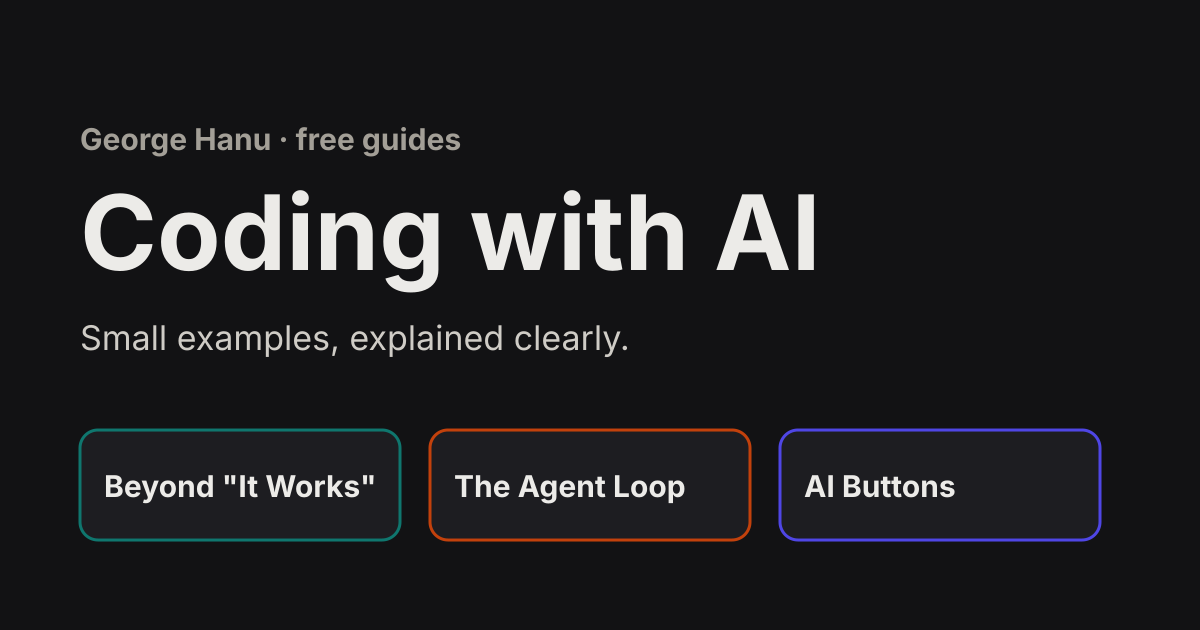
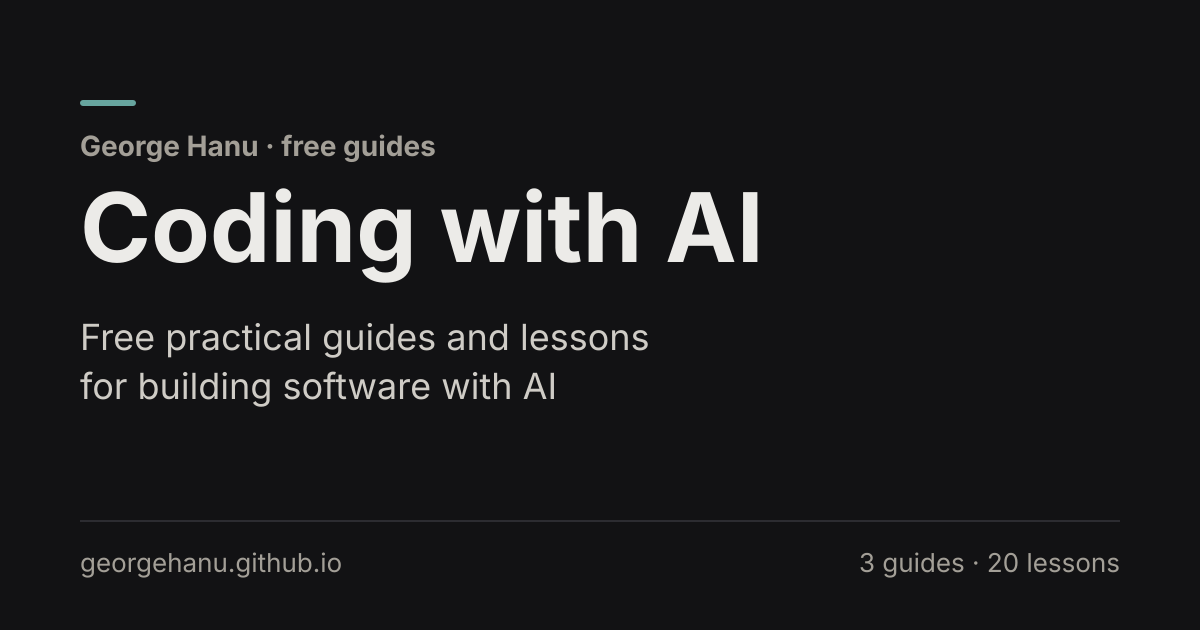
Add share images for every guide and series

diff --git a/series/use/index.html b/series/use/index.html
@@ -14,14 +14,14 @@
 <meta property="og:image" content="https://georgehanu.github.io/og/use.png">
 <meta property="og:image:width" content="1200">
 <meta property="og:image:height" content="630">
-<meta property="og:image:alt" content="Working with coding agents, a series of free guides by George Hanu: Beyond &quot;It Works&quot;">
+<meta property="og:image:alt" content="Working with coding agents: Practical workflows for getting reviewable changes out of coding agents. Coding with AI, by George Hanu.">
 <meta name="twitter:card" content="summary_large_image">
 <meta name="twitter:site" content="@georgehanu">
 <meta name="twitter:creator" content="@georgehanu">
 <meta name="twitter:title" content="Working with coding agents · Coding with AI">
 <meta name="twitter:description" content="Get reviewable, checkable work out of Claude Code, Codex and friends. 1 free guide, 6 lessons, by George Hanu.">
 <meta name="twitter:image" content="https://georgehanu.github.io/og/use.png">
-<meta name="twitter:image:alt" content="Working with coding agents, a series of free guides by George Hanu: Beyond &quot;It Works&quot;">
+<meta name="twitter:image:alt" content="Working with coding agents: Practical workflows for getting reviewable changes out of coding agents. Coding with AI, by George Hanu.">
 <link rel="icon" href="/favicon.svg" type="image/svg+xml">
 <link rel="preconnect" href="https://fonts.googleapis.com">
 <link rel="preconnect" href="https://fonts.gstatic.com" crossorigin>

diff --git a/index.html b/index.html
@@ -14,14 +14,14 @@
 <meta property="og:image" content="https://georgehanu.github.io/og.png">
 <meta property="og:image:width" content="1200">
 <meta property="og:image:height" content="630">
-<meta property="og:image:alt" content="Coding with AI, free guides by George Hanu: Beyond &quot;It Works&quot;, The Agent Loop, AI Buttons">
+<meta property="og:image:alt" content="Coding with AI: Free practical guides and lessons for building software with AI. By George Hanu.">
 <meta name="twitter:card" content="summary_large_image">
 <meta name="twitter:site" content="@georgehanu">
 <meta name="twitter:creator" content="@georgehanu">
 <meta name="twitter:title" content="Coding with AI · Free guides by George Hanu">
 <meta name="twitter:description" content="I teach developers to build software with AI, from useful scripts to app features. Small examples, explained clearly. 3 free guides, 20 lessons.">
 <meta name="twitter:image" content="https://georgehanu.github.io/og.png">
-<meta name="twitter:image:alt" content="Coding with AI, free guides by George Hanu: Beyond &quot;It Works&quot;, The Agent Loop, AI Buttons">
+<meta name="twitter:image:alt" content="Coding with AI: Free practical guides and lessons for building software with AI. By George Hanu.">
 <link rel="icon" href="/favicon.svg" type="image/svg+xml">
 <link rel="preconnect" href="https://fonts.googleapis.com">
 <link rel="preconnect" href="https://fonts.gstatic.com" crossorigin>

diff --git a/series/apps/index.html b/series/apps/index.html
@@ -14,14 +14,14 @@
 <meta property="og:image" content="https://georgehanu.github.io/og/apps.png">
 <meta property="og:image:width" content="1200">
 <meta property="og:image:height" content="630">
-<meta property="og:image:alt" content="AI in real apps, a series of free guides by George Hanu: AI Buttons">
+<meta property="og:image:alt" content="AI in real apps: Small AI features built as practical workflows inside real software. Coding with AI, by George Hanu.">
 <meta name="twitter:card" content="summary_large_image">
 <meta name="twitter:site" content="@georgehanu">
 <meta name="twitter:creator" content="@georgehanu">
 <meta name="twitter:title" content="AI in real apps · Coding with AI">
 <meta name="twitter:description" content="Small AI features with schemas, checks and a person in charge. 1 free guide, 7 lessons, by George Hanu.">
 <meta name="twitter:image" content="https://georgehanu.github.io/og/apps.png">
-<meta name="twitter:image:alt" content="AI in real apps, a series of free guides by George Hanu: AI Buttons">
+<meta name="twitter:image:alt" content="AI in real apps: Small AI features built as practical workflows inside real software. Coding with AI, by George Hanu.">
 <link rel="icon" href="/favicon.svg" type="image/svg+xml">
 <link rel="preconnect" href="https://fonts.googleapis.com">
 <link rel="preconnect" href="https://fonts.gstatic.com" crossorigin>

diff --git a/series/inside/index.html b/series/inside/index.html
@@ -14,14 +14,14 @@
 <meta property="og:image" content="https://georgehanu.github.io/og/inside.png">
 <meta property="og:image:width" content="1200">
 <meta property="og:image:height" content="630">
-<meta property="og:image:alt" content="How agents work, a series of free guides by George Hanu: The Agent Loop">
+<meta property="og:image:alt" content="How agents work: Small examples that explain tools, loops and agent behavior. Coding with AI, by George Hanu.">
 <meta name="twitter:card" content="summary_large_image">
 <meta name="twitter:site" content="@georgehanu">
 <meta name="twitter:creator" content="@georgehanu">
 <meta name="twitter:title" content="How agents work · Coding with AI">
 <meta name="twitter:description" content="Open the box: the model, the tools and the loop around them. 1 free guide, 7 lessons, by George Hanu.">
 <meta name="twitter:image" content="https://georgehanu.github.io/og/inside.png">
-<meta name="twitter:image:alt" content="How agents work, a series of free guides by George Hanu: The Agent Loop">
+<meta name="twitter:image:alt" content="How agents work: Small examples that explain tools, loops and agent behavior. Coding with AI, by George Hanu.">
 <link rel="icon" href="/favicon.svg" type="image/svg+xml">
 <link rel="preconnect" href="https://fonts.googleapis.com">
 <link rel="preconnect" href="https://fonts.gstatic.com" crossorigin>

diff --git a/lessons/index.html b/lessons/index.html
@@ -14,14 +14,14 @@
 <meta property="og:image" content="https://georgehanu.github.io/og.png">
 <meta property="og:image:width" content="1200">
 <meta property="og:image:height" content="630">
-<meta property="og:image:alt" content="Coding with AI, free guides by George Hanu">
+<meta property="og:image:alt" content="Coding with AI: Free practical guides and lessons for building software with AI. By George Hanu.">
 <meta name="twitter:card" content="summary_large_image">
 <meta name="twitter:site" content="@georgehanu">
 <meta name="twitter:creator" content="@georgehanu">
 <meta name="twitter:title" content="All lessons · Coding with AI">
 <meta name="twitter:description" content="Every lesson from George Hanu's free guides on coding with AI, in one list: 20 lessons from 3 guides. Search, or filter by series and topic.">
 <meta name="twitter:image" content="https://georgehanu.github.io/og.png">
-<meta name="twitter:image:alt" content="Coding with AI, free guides by George Hanu">
+<meta name="twitter:image:alt" content="Coding with AI: Free practical guides and lessons for building software with AI. By George Hanu.">
 <link rel="icon" href="/favicon.svg" type="image/svg+xml">
 <link rel="preconnect" href="https://fonts.googleapis.com">
 <link rel="preconnect" href="https://fonts.gstatic.com" crossorigin>

diff --git a/404.html b/404.html
@@ -15,14 +15,14 @@
 <meta property="og:image" content="https://georgehanu.github.io/og.png">
 <meta property="og:image:width" content="1200">
 <meta property="og:image:height" content="630">
-<meta property="og:image:alt" content="Coding with AI, free guides by George Hanu">
+<meta property="og:image:alt" content="Coding with AI: Free practical guides and lessons for building software with AI. By George Hanu.">
 <meta name="twitter:card" content="summary_large_image">
 <meta name="twitter:site" content="@georgehanu">
 <meta name="twitter:creator" content="@georgehanu">
 <meta name="twitter:title" content="Page not found · Coding with AI">
 <meta name="twitter:description" content="That page doesn't exist. Every free guide and lesson on Coding with AI is one click away.">
 <meta name="twitter:image" content="https://georgehanu.github.io/og.png">
-<meta name="twitter:image:alt" content="Coding with AI, free guides by George Hanu">
+<meta name="twitter:image:alt" content="Coding with AI: Free practical guides and lessons for building software with AI. By George Hanu.">
 <link rel="icon" href="/favicon.svg" type="image/svg+xml">
 <link rel="preconnect" href="https://fonts.googleapis.com">
 <link rel="preconnect" href="https://fonts.gstatic.com" crossorigin>

diff --git a/README.md b/README.md
@@ -19,3 +19,9 @@ Every page comes from the files in [`data/`](data/). The HTML, `sitemap.xml`, `r
 **Topics** (fixed): `coding-agents`, `agents`, `tool-calling`, `workflows`, `structured-output`, `evaluation`, `safety`, `human-in-the-loop`, `cost`, `prompting`, `planning`, `ux`.
 
 The home page gets a **Latest** section, the 3 newest guides by `published`, automatically once there are 5 or more guides.
+
+## Share images
+
+Every build draws the link previews (1200×630) from the same data, with one template in [`scripts/og.mjs`](scripts/og.mjs): `og.png` for the home page (and every page without its own image), `og/<series>.png` for each series, and `og/guides/<id>.png` for each guide. The guide sites point their `og:image` at their file here, for the guide's home page and every lesson, so keep those paths stable.
+
+The image shows the title and a short line from `"og": { "description": "…" }` in `data/site.json` (site and each series) or the guide's JSON. Without it, it falls back to the subtitle, the series blurb or the guide's promise. `npm run check` fails if an image is missing and warns when a guide page doesn't use its image.
